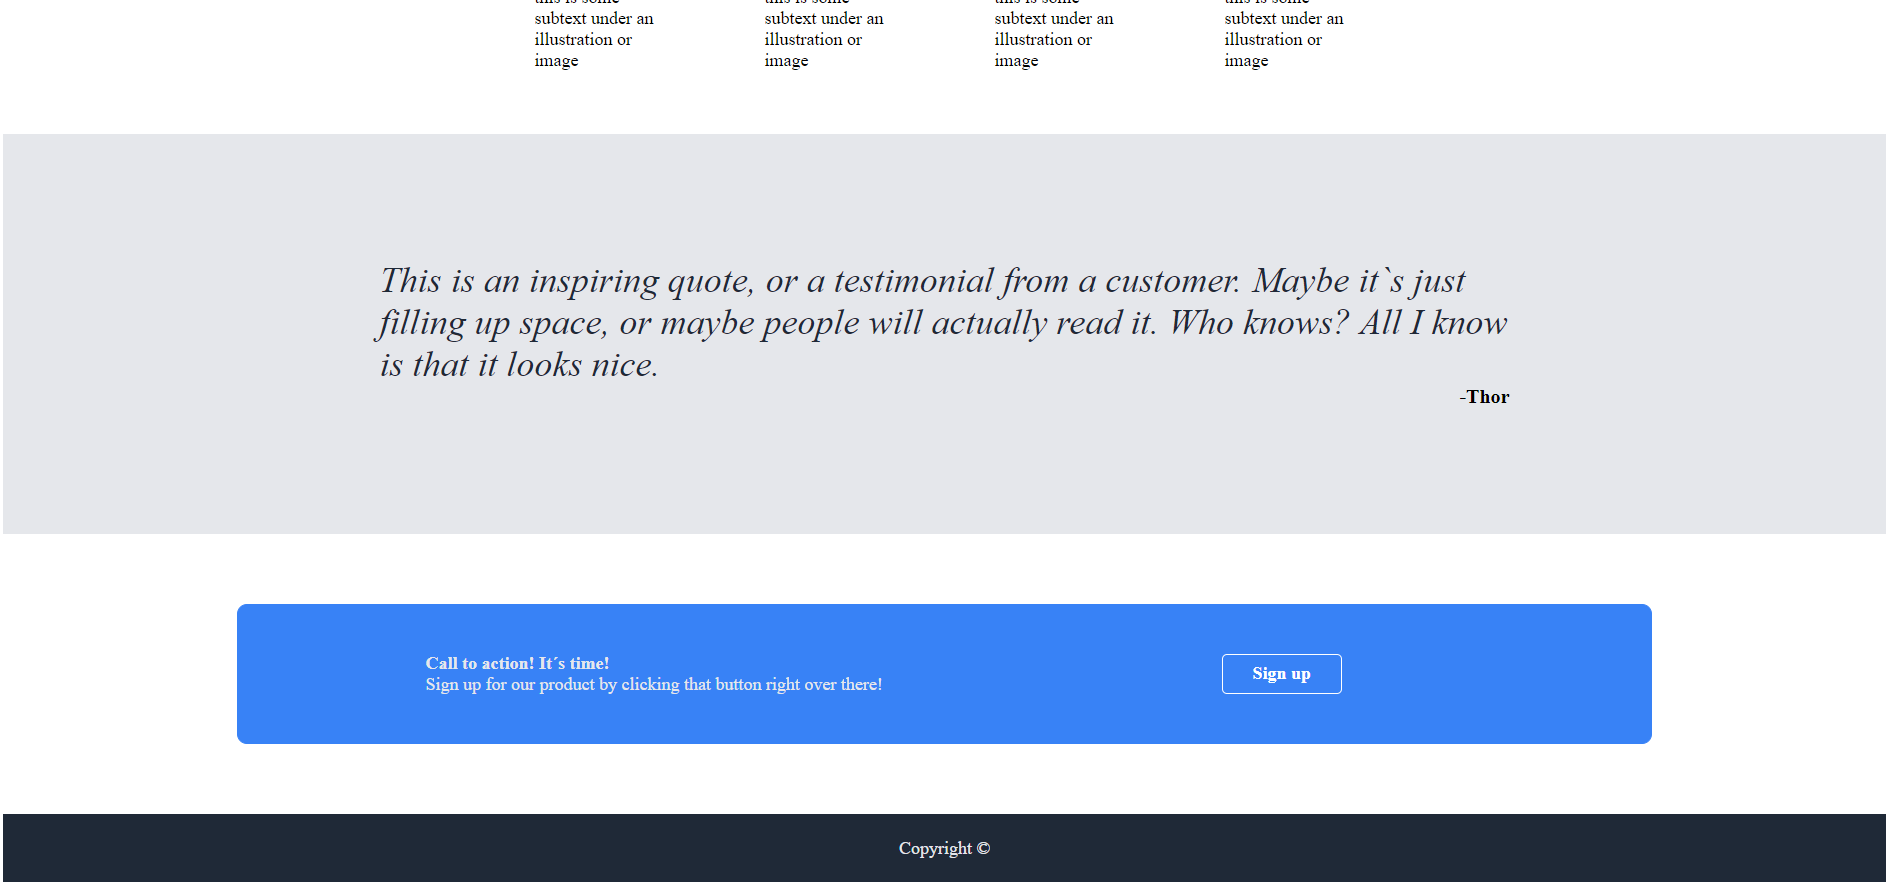
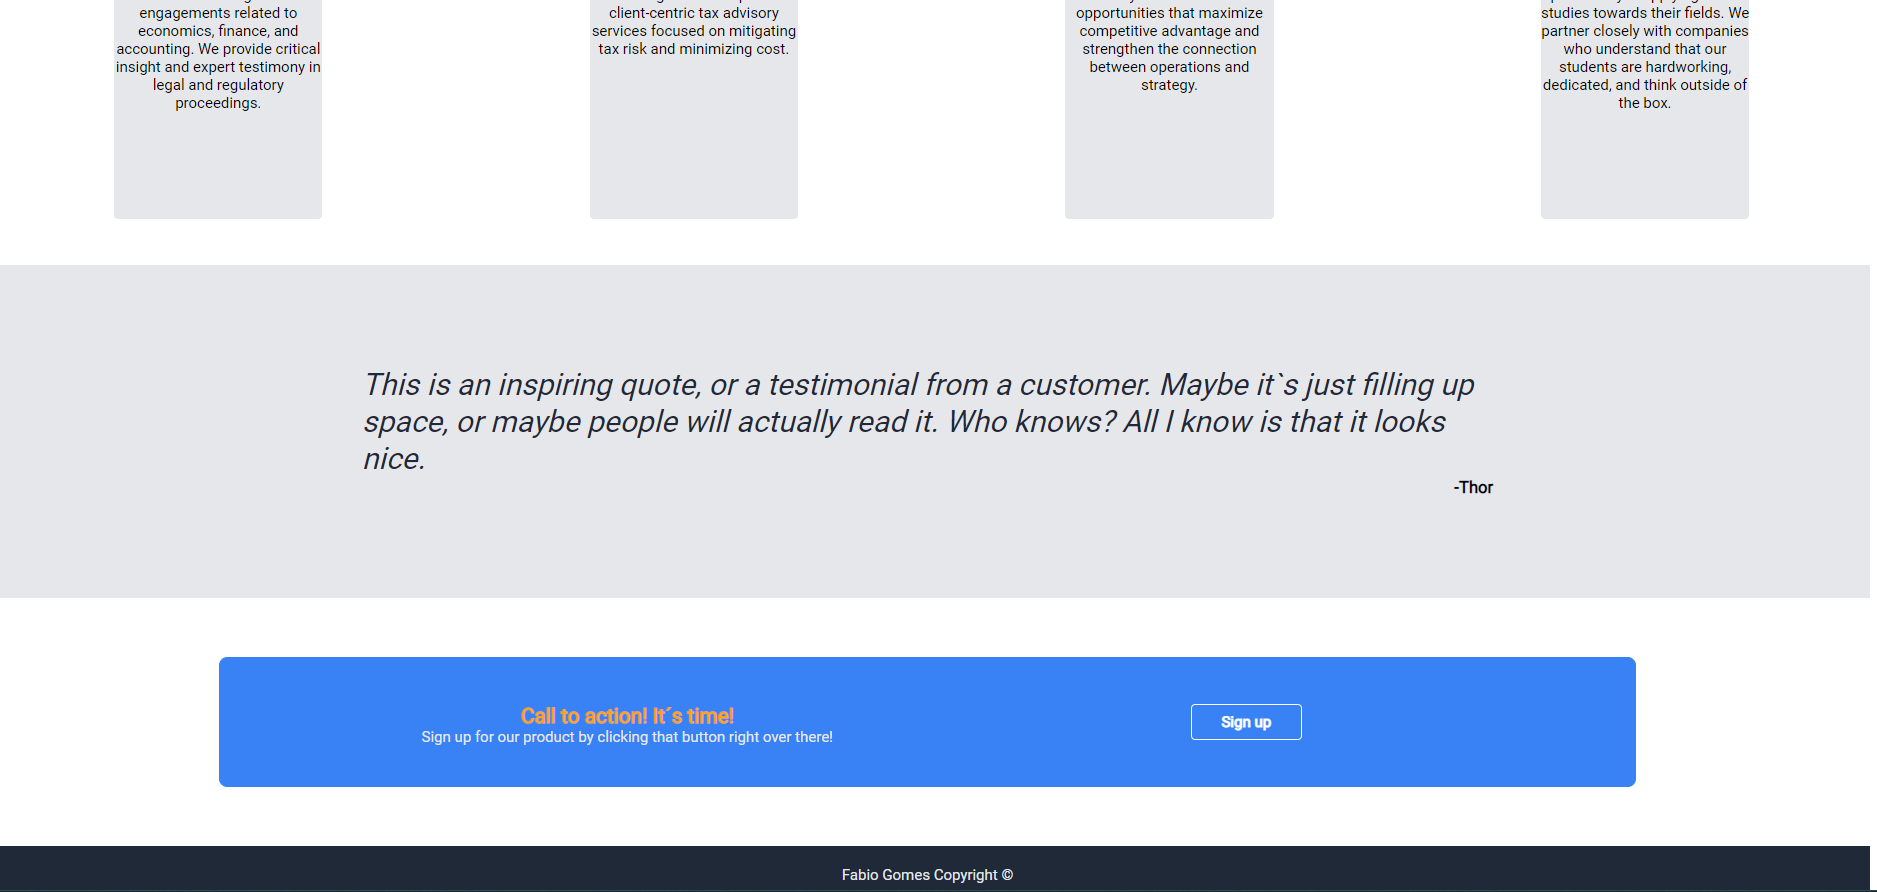
review coding HTML and CSS, changed and update data for index.html

diff --git a/index.html b/index.html
@@ -17,7 +17,7 @@
             </div>
             <div class="nav-link">
                 <a class="nav-link-home" href="https://www.brainnest.consulting/">HOME</a>
-                <a href="">OUR SERVICES</a>
+                <a href="#section1">OUR SERVICES</a>
                 <a href="https://www.brainnest.consulting/contact">CONTACT US</a>
             </div>
         </nav>
@@ -33,7 +33,7 @@
                     Since 2020, we’ve helped our clients by delivering services that transform the
                     way they do business.
                 </p>
-                <button type="button">Sign up</button>
+                <button type="button">CONTACT US</button>
             </div>
             <div class="header-image">
                 <img src="./assets/brainnest main 450x360.png" alt="brainnest picture">
@@ -42,8 +42,11 @@
     </header>
 
     <main>
-        <h2>Some random information.</h2>
-        <div class="box-container">
+        <div class="main-text">
+            <spam class="text-main1">WE ARE COMMITTED TO</spam>
+            <spam class="text-main2">EXCELLENCE</spam>
+        </div>
+        <div class="box-container" id="section1">
             <div class="box-info">
                 <h3>ECONOMIC ADVISORY</h3>
                 <p class="box-text">
@@ -86,11 +89,15 @@
         <div class="quote-section">
             <div class="quote-text">
                 <p id="quote-text">
+                    From tackling personal decisions to reaching important milestones, our job is to guide you on the path of success. 
+                    We are fueled by our commitment to excellence and go the extra mile to make sure clients are fully satisfied with our work.
+                    As a professional Business Management Company, we believe in maintaining a positive mindset, creating partnerships with
+                    a purpose, and always striving for significant outcomes. 
                     This is an inspiring quote, or a testimonial from a customer.
                     Maybe it`s just filling up space, or maybe people will actually read it.
                     Who knows? All I know is that it looks nice.
                 </p>
-                <span>-Thor</span>
+                <span>OUR MISSION</span>
             </div>
         </div>
 
@@ -106,7 +113,7 @@
     </main>
 
     <footer>
-        <p>Copyright &copy;</p>
+        <p>Fabio Gomes Copyright &copy;</p>
     </footer>
 
 </body>

diff --git a/index.css b/index.css
@@ -64,6 +64,25 @@ a {
   font-weight: 900;
 }
 
+.main-text{
+  display: flex;
+  flex-direction: column;
+  background-color: #3882f6;
+  padding-top: 10px;
+}
+
+
+.text-main1, .text-main2{
+  text-align: center;
+  font-size: 36px;
+  font-weight: bolder;
+  color: white;
+}
+
+.text-main2{
+color: #fca311;
+}
+
 .brainnest {
   color:#fca311
 }
@@ -72,7 +91,6 @@ a {
   display: flex;
   align-items: center;
   justify-content: space-around;
- 
 }
 
 button {
@@ -90,26 +108,19 @@ button:hover {
   cursor: pointer;
 }
 
-h2 {
-  text-align: center;
-  font-size: 36px;
-  font-weight: bolder;
-  color: #1f2937;
-}
-
 .box-container {
   width: 100%;
   display: flex;
   justify-content: center;
-  flex-wrap: wrap;
-  margin-bottom: 0;
   gap: 20px;
+  background-color: #14213D;
 }
 
 .box-info {
   display: flex;
   flex: 1;
-  height: 517px;
+  height: 450px;
+  width: auto !important;
   font-size: small;
   flex-direction: column;
   align-content: stretch;
@@ -131,9 +142,9 @@ h3 {
   margin-top: 1px;
   text-align: center;
   margin-left: 10px;
-  margin-bottom: 5px;
+  margin-right: 10px;
   border-radius: 5px;
-  background: #e5e7eb;
+  background: white;
 }
 
 .card p {
@@ -150,11 +161,8 @@ h3 {
 }
 
 .quote-text p {
-  font-size: 36px;
+  font-size: 28px;
   font-style: italic;
-  font-weight: 300;
-  color: #1f2937;
-  margin: 0;
 }
 
 .quote-text {
